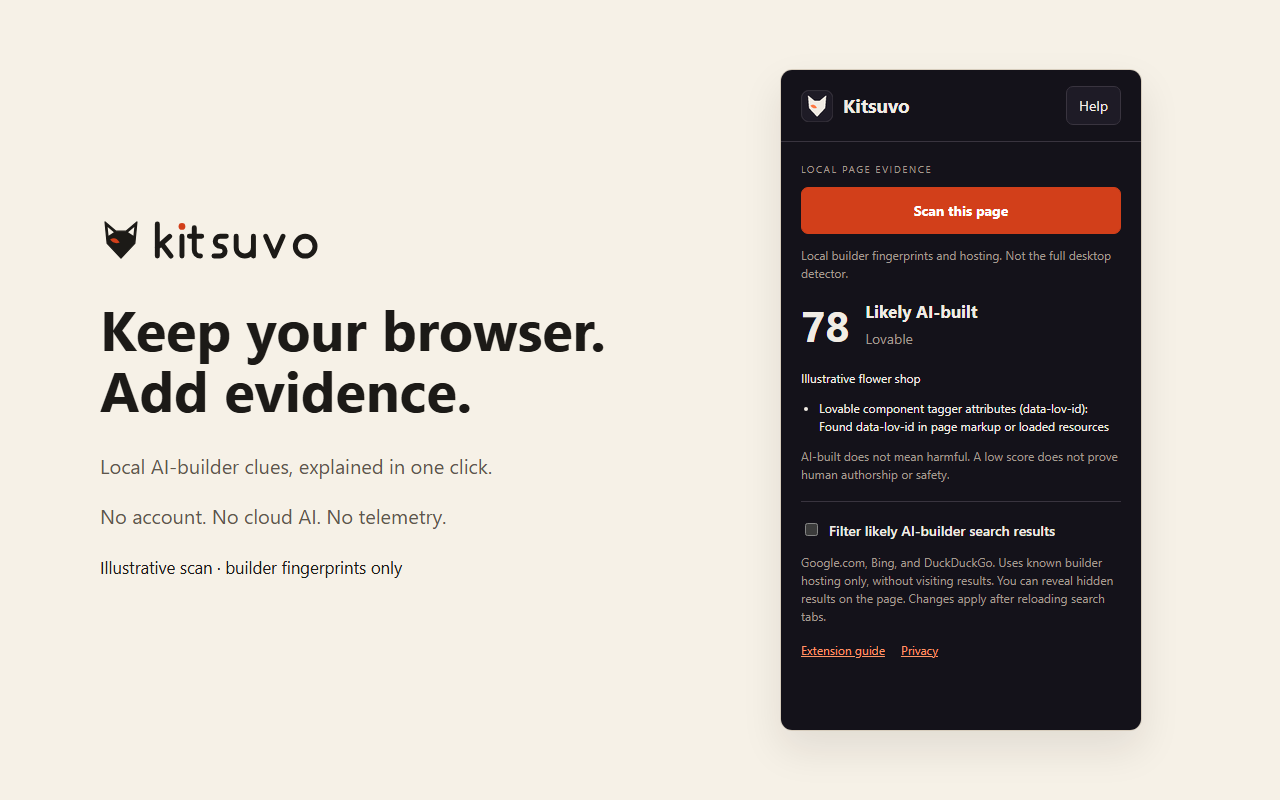
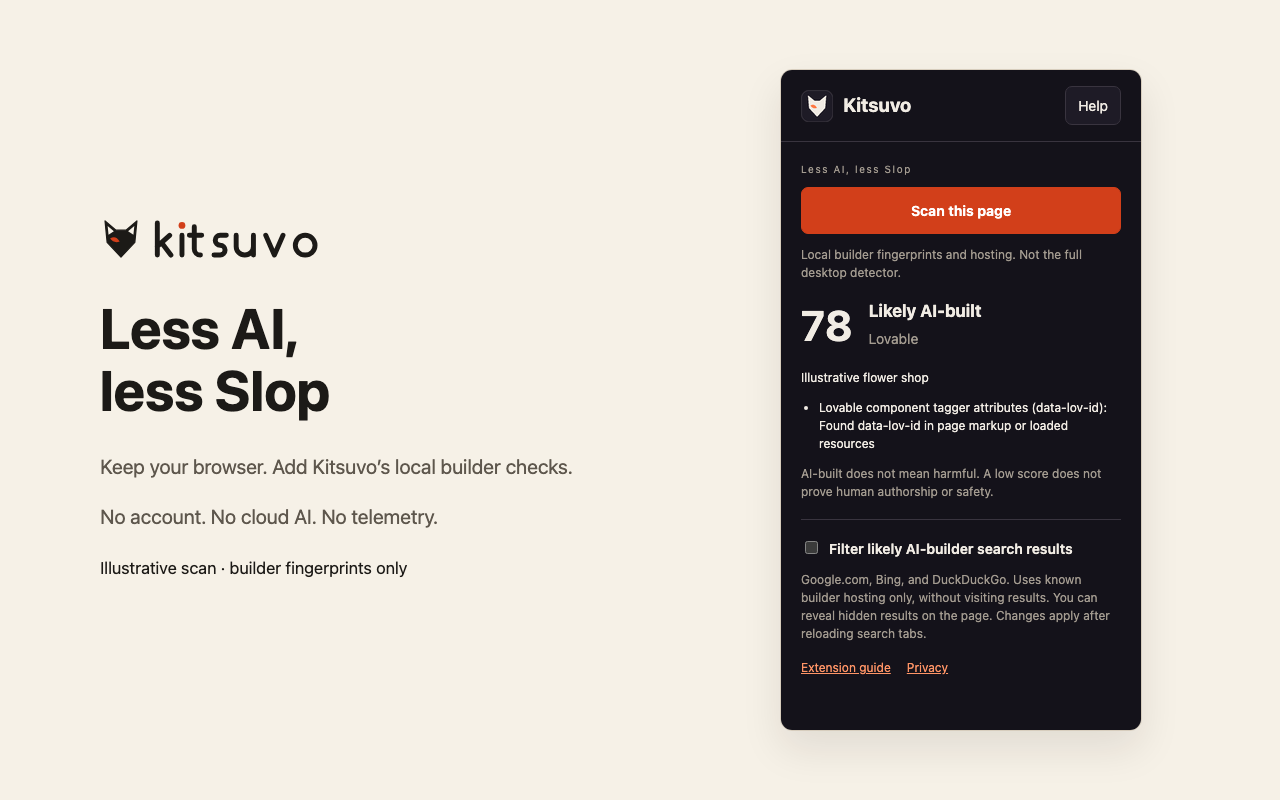
Align Kitsuvo plugin and extension branding (#12)

diff --git a/extensions/chromium/popup.html b/extensions/chromium/popup.html
@@ -3,7 +3,7 @@
 <title>Kitsuvo — page evidence</title><link rel="stylesheet" href="popup.css"></head>
 <body><header><img src="icons/icon-32.png" width="32" height="32" alt=""><h1>Kitsuvo</h1><button id="help" type="button" aria-label="Replay feature tour">Help</button></header>
 <main><section id="tour" hidden aria-labelledby="tour-title"><h2 id="tour-title">See how this page was built</h2><p>Choose <strong>Scan this page</strong> for local builder evidence. The search filter is optional and asks for access only to the supported search sites. Scores are clues, not proof of authorship or safety.</p><button id="dismiss" type="button">Close guide</button></section>
-<p class="eyebrow">LOCAL PAGE EVIDENCE</p><button id="scan" class="primary" type="button">Scan this page</button>
+<p class="eyebrow">Less AI, less Slop</p><button id="scan" class="primary" type="button">Scan this page</button>
 <p id="status" role="status" aria-live="polite">No page data leaves your browser.</p>
 <section id="report" hidden aria-labelledby="verdict"><div class="score-row"><strong id="score"></strong><div><h2 id="verdict"></h2><p id="builder"></p></div></div><p id="page-title"></p><ul id="evidence"></ul><p class="fine">AI-built does not mean harmful. A low score does not prove human authorship or safety.</p></section>
 <section class="setting"><label for="filter"><input id="filter" type="checkbox"> Filter likely AI-builder search results</label><p class="fine">Google.com, Bing, and DuckDuckGo. Uses known builder hosting only, without visiting results. You can reveal hidden results on the page. Changes apply after reloading search tabs.</p></section>

diff --git a/extensions/firefox/popup.html b/extensions/firefox/popup.html
@@ -3,7 +3,7 @@
 <title>Kitsuvo — page evidence</title><link rel="stylesheet" href="popup.css"></head>
 <body><header><img src="icons/icon-32.png" width="32" height="32" alt=""><h1>Kitsuvo</h1><button id="help" type="button" aria-label="Replay feature tour">Help</button></header>
 <main><section id="tour" hidden aria-labelledby="tour-title"><h2 id="tour-title">See how this page was built</h2><p>Choose <strong>Scan this page</strong> for local builder evidence. The search filter is optional and asks for access only to the supported search sites. Scores are clues, not proof of authorship or safety.</p><button id="dismiss" type="button">Close guide</button></section>
-<p class="eyebrow">LOCAL PAGE EVIDENCE</p><button id="scan" class="primary" type="button">Scan this page</button>
+<p class="eyebrow">Less AI, less Slop</p><button id="scan" class="primary" type="button">Scan this page</button>
 <p id="status" role="status" aria-live="polite">No page data leaves your browser.</p>
 <section id="report" hidden aria-labelledby="verdict"><div class="score-row"><strong id="score"></strong><div><h2 id="verdict"></h2><p id="builder"></p></div></div><p id="page-title"></p><ul id="evidence"></ul><p class="fine">AI-built does not mean harmful. A low score does not prove human authorship or safety.</p></section>
 <section class="setting"><label for="filter"><input id="filter" type="checkbox"> Filter likely AI-builder search results</label><p class="fine">Google.com, Bing, and DuckDuckGo. Uses known builder hosting only, without visiting results. You can reveal hidden results on the page. Changes apply after reloading search tabs.</p></section>

diff --git a/extensions/safari/popup.html b/extensions/safari/popup.html
@@ -3,7 +3,7 @@
 <title>Kitsuvo — page evidence</title><link rel="stylesheet" href="popup.css"></head>
 <body><header><img src="icons/icon-32.png" width="32" height="32" alt=""><h1>Kitsuvo</h1><button id="help" type="button" aria-label="Replay feature tour">Help</button></header>
 <main><section id="tour" hidden aria-labelledby="tour-title"><h2 id="tour-title">See how this page was built</h2><p>Choose <strong>Scan this page</strong> for local builder evidence. The search filter is optional and asks for access only to the supported search sites. Scores are clues, not proof of authorship or safety.</p><button id="dismiss" type="button">Close guide</button></section>
-<p class="eyebrow">LOCAL PAGE EVIDENCE</p><button id="scan" class="primary" type="button">Scan this page</button>
+<p class="eyebrow">Less AI, less Slop</p><button id="scan" class="primary" type="button">Scan this page</button>
 <p id="status" role="status" aria-live="polite">No page data leaves your browser.</p>
 <section id="report" hidden aria-labelledby="verdict"><div class="score-row"><strong id="score"></strong><div><h2 id="verdict"></h2><p id="builder"></p></div></div><p id="page-title"></p><ul id="evidence"></ul><p class="fine">AI-built does not mean harmful. A low score does not prove human authorship or safety.</p></section>
 <section class="setting"><label for="filter"><input id="filter" type="checkbox"> Filter likely AI-builder search results</label><p class="fine">Google.com, Bing, and DuckDuckGo. Uses known builder hosting only, without visiting results. You can reveal hidden results on the page. Changes apply after reloading search tabs.</p></section>

diff --git a/docs/marketplace-integrations.md b/docs/marketplace-integrations.md
@@ -70,7 +70,7 @@ Keep `args: ["mcp"]`. Plugin installation does not install the native browser.
 An installed plugin is cached by its host; edit/reinstall the plugin copy or
 configure a separate native MCP connection when using a custom executable path.
 
-Download and extract `https://kitsuvo.com/downloads/kitsuvo-integrations-0.2.3.zip`.
+Download and extract `https://kitsuvo.com/downloads/kitsuvo-integrations-0.2.4.zip`.
 It contains the local marketplace manifests, branded plugin, four skills, and
 loopback HTTP MCP bridge with its locked dependencies and tests. Commands below
 run from the extracted directory or an authorized repository checkout.
@@ -133,6 +133,27 @@ popup can become active in the window; pass the snapshot's `tab` with its refs,
 or list/select the new tab and take a fresh snapshot before interacting there.
 An invalid option request preserves the existing selection and emits no change
 event; it cannot partially apply a mixed valid/invalid request.
+
+Snapshots include compact viewport, scroll, device scale, document readiness,
+language, focused-field state, frame availability, and traversal timing metadata.
+Controls expose readonly/disabled state, bounded accessible descriptions, and
+new-tab link targets. Password values and password selection offsets stay hidden.
+Text feedback follows typing and caret navigation, including same-origin frames;
+shadow controls and frame borders are handled when locating native input.
+Cross-origin frame contents remain inaccessible to the page snapshot. Large
+snapshots retain their character limit and report truncation; bounded traversal
+stops early rather than inspecting every remaining control.
+
+Click, type, press, and select accept optional `settle_ms` (0–2000, default 700).
+Use zero only for known non-navigating edits, and use `browser_wait_for` for
+asynchronous results. Keep the default for navigation and popup actions.
+October 10 Windows measurements on a 6,000-control local fixture recorded
+2.8–6.3 ms bounded snapshot traversal, 529 ms full traversal, and an 88 ms
+fast form-edit round trip. These are local samples, not a browser ranking.
+The native regression also checks trusted hover, iframe and shadow input,
+rejected readonly typing, text feedback, and Stop denying existing/new clients.
+Run `node --test tests/agent-actions.test.cjs` for the isolated Chrome control
+and snapshot-limit regressions.
 
 ## Interactive browser inside ChatGPT and Claude
 

diff --git a/README.md b/README.md
@@ -9,7 +9,7 @@
 
 **Kitsuvo integrations let Claude Code, Codex and other MCP clients drive
 [Kitsuvo](https://kitsuvo.com/?utm_source=github&utm_medium=readme&utm_campaign=integrations),
-the free anti-AI web browser for Mac and Windows: open a page, read it, and
+the First no-AI web browser. Less AI, less Slop. Free for Mac and Windows: open a page, read it, and
 explain the local evidence behind its AI-built, slop and impersonation
 verdicts, or check a layout at phone, tablet and desktop sizes.**
 

diff --git a/plugins/kitsuvo/README.md b/plugins/kitsuvo/README.md
@@ -1,6 +1,8 @@
 # Kitsuvo
 
-Browse with evidence. Kitsuvo helps you inspect AI-built websites, read the observations behind a verdict, and check pages at phone, tablet, and desktop sizes.
+Less AI, less Slop. First no-AI web browser.
+
+This plugin connects your AI client to Kitsuvo. Kitsuvo helps you inspect AI-built websites, read the observations behind a verdict, and check pages at phone, tablet, and desktop sizes.
 
 ![Kitsuvo logo](assets/icon-256.png)
 
